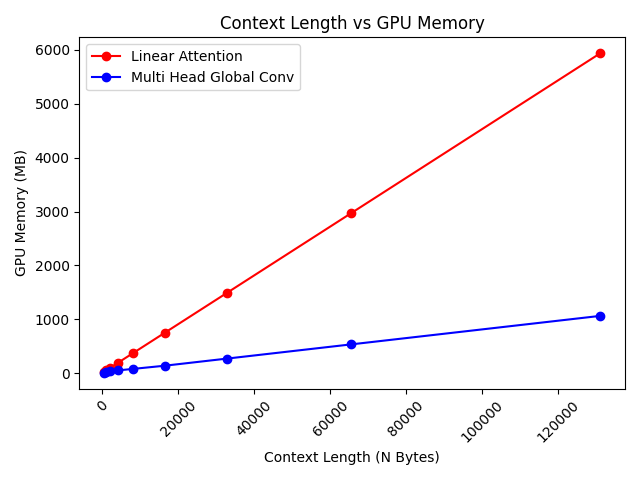
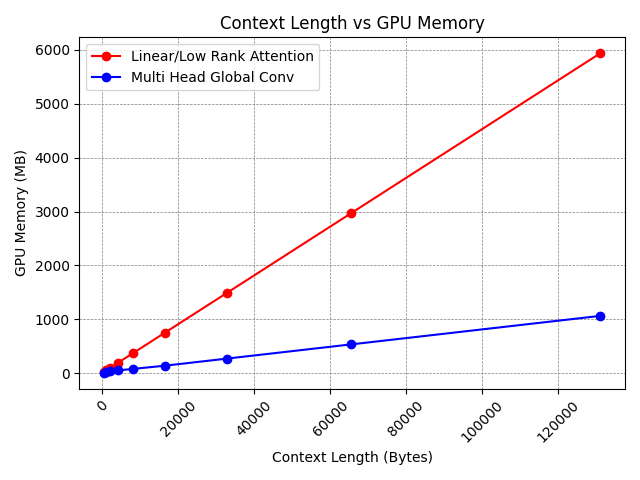
Update graph style

Changed region(s): [[0.2812, 0.0938, 0.5, 0.2188], [0.4062, 0.9375, 0.6875, 0.9688]]

diff --git a/ml_workspace/arch_benchmark/benchmark.py b/ml_workspace/arch_benchmark/benchmark.py
@@ -75,13 +75,14 @@ os.remove("temp_config.json")
 
 # Graph plot data and save to PNG.
 fig, (ax1) = plt.subplots(1, 1)
-ax1.plot(context_lens, plot_data["attention"]["memory_mb"], label="Linear Attention", marker='o', color="red")
+ax1.plot(context_lens, plot_data["attention"]["memory_mb"], label="Linear/Low Rank Attention", marker='o', color="red")
 ax1.plot(context_lens, plot_data["global_conv"]["memory_mb"], label="Multi Head Global Conv", marker='o', color="blue")
-ax1.set_xlabel("Context Length (N Bytes)")
+ax1.set_xlabel("Context Length (Bytes)")
 ax1.set_ylabel("GPU Memory (MB)")
 ax1.set_title("Context Length vs GPU Memory")
 ax1.tick_params("x", rotation=45)
 ax1.legend()
+ax1.grid(True, color="gray", linestyle="--", linewidth=0.5)
 
 plt.tight_layout()
 plt.show()
